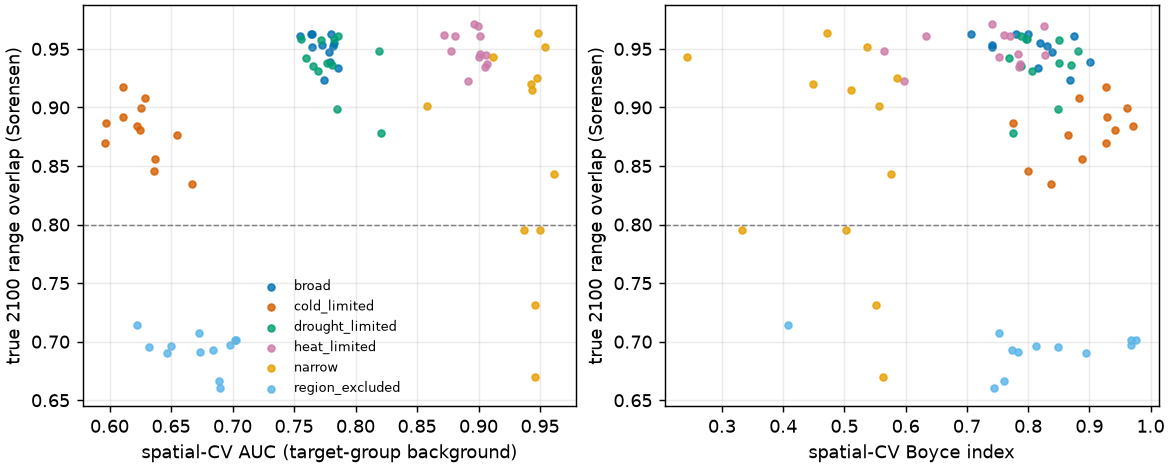
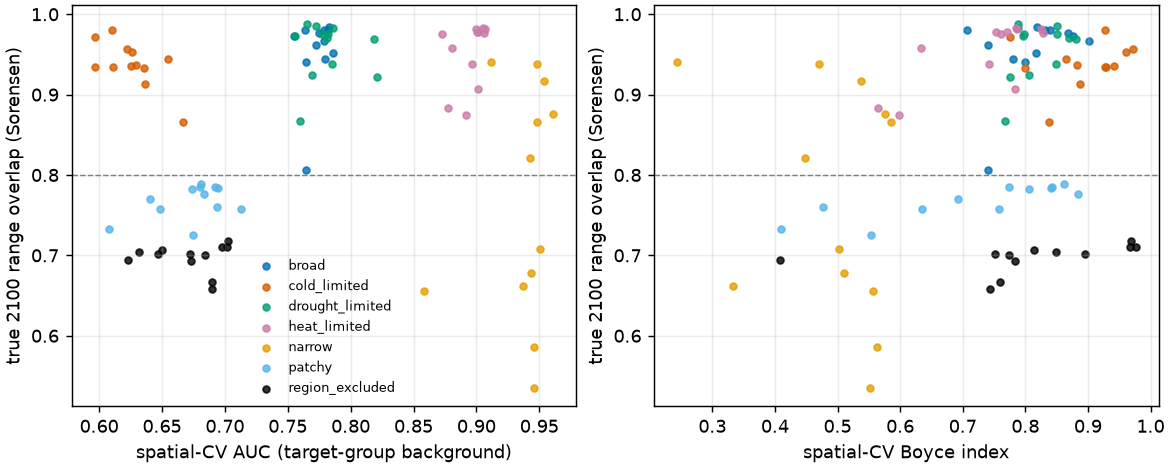
Spike A: cell-level licence loss results
Claude-Session: https://claude.ai/code/session_016sKi2wm8sbZCkPAH7RSuXJ

diff --git a/docs/spikes/A-occurrences.md b/docs/spikes/A-occurrences.md
@@ -83,6 +83,21 @@ Counts from the public occurrence-search facets, with the same coordinate / no-i
 - Reading: for the two birds, the bulk of data is CC-BY (eBird, iNaturalist); for monarch, tick and sugar maple, roughly half is lost, which matters most for the species with the fewest records (maple 3.7k final cells, tick 1.3k).
 - Licensing/legal: whether a non-commercial licence blocks use as an input to published derived outputs on a free, educational site is a legal question, left to the owner (roadmap section 14) [U].
 
+### 4b. Licence loss measured after cleaning and thinning (the number that matters for modelling)
+Follow-up run 38055782451 (workflow spike-a-nc, commit b3f5034, 10 Oct 2026): one extra download per species that also includes CC-BY-NC, cleaned twice with the same pipeline, once with all licences and once restricted to CC0 + CC-BY. Three species were chosen: the two with the largest record-level loss and the sugar maple [V: run 38055782451; data in `docs/spikes/data/spike-a/nc-run-results.json`].
+
+| Species | Download DOI (with NC) | Records, all licences | Cells (2.5 arc-min), all licences | Cells, CC0 + CC-BY | Cells that exist only because of CC-BY-NC | Cell loss |
+|---|---|---|---|---|---|---|
+| Sugar maple | 10.15468/dl.26u9mg | 54,907 | 11,611 | 3,749 | 7,862 | **67.7%** |
+| Monarch | 10.15468/dl.bwmrn5 | 763,891 | 56,132 | 15,201 | 40,931 | **72.9%** |
+| Blacklegged tick | 10.15468/dl.9y2662 | 16,837 | 5,669 | 1,276 | 4,393 | **77.5%** |
+
+- Record-level loss was 46% / 47% / 52%; cell-level loss is **68% to 78%**: the NC records are not redundant repeats, they cover most of the occupied cells. Dropping CC-BY-NC cuts the number of occupied cells to roughly a quarter to a third [V].
+- Where the lost cells are: sugar maple 7,812 of 7,862 in North America (44 in Europe); monarch 37,149 NA, 2,254 Oceania, 846 Europe, 637 South America; tick 4,392 of 4,393 in NA [V: continents_only_nc]. The continent mix is therefore about the same; the licence loss thins the coverage, not the geography [V].
+- The CC0 + CC-BY side reproduced the earlier run (maple 3,749 cells vs 3,739; monarch 15,201 vs 15,157; tick 1,276 vs 1,275): the slight differences are new records since 6 Oct [V, compare section 3].
+- What is NOT known: whether a model fitted to the quarter of cells is worse. All three still exceed the 50 to 100 cell minimum, so the species would not be excluded; the effect on skill needs a test (fit both, compare held-out AUC/TSS) once the SDM engine exists [U].
+- Not measured for the robins, oak and grape; by the record-level loss (1% to 26%) they are far less affected [V for record level; cell level U].
+
 ## 5. GBIF open data on AWS S3 (tested from this sandbox, 10 Oct 2026)
 - The bucket `gbif-open-data-us-east-1` is reachable anonymously from this sandbox: S3 listing, ranged GET and DuckDB 1.5.6 (`httpfs`) all work [V: curl and DuckDB runs in this sandbox, 10 Oct 2026]. Practical trap: this sandbox injects dummy AWS credentials into the environment, which make DuckDB fail with HTTP 403 "InvalidAccessKeyId"; unset them or create an empty S3 secret (`CREATE SECRET (TYPE s3, PROVIDER config, KEY_ID '', SECRET '', REGION 'us-east-1')`) [V].
 - Monthly snapshots from 2021-04-13 to 2026-10-01 [V: listing]. The latest, `occurrence/2026-10-01/`, is 9,927 objects and 288 GB of Parquet (`occurrence.parquet/000001` to `010448`) plus `citation.txt` containing a GBIF download citation with DOI 10.15468/dl.tup2g6, i.e. one DOI for the whole snapshot [V: listing, file content].
